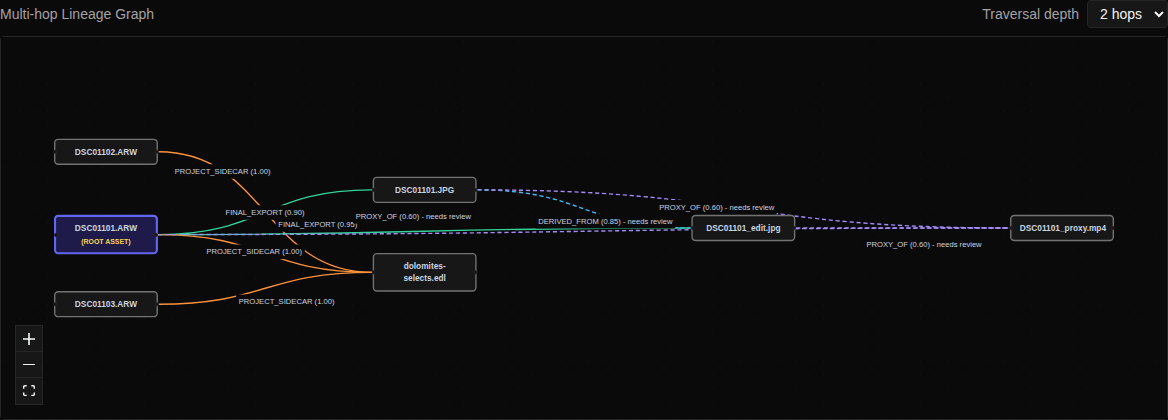
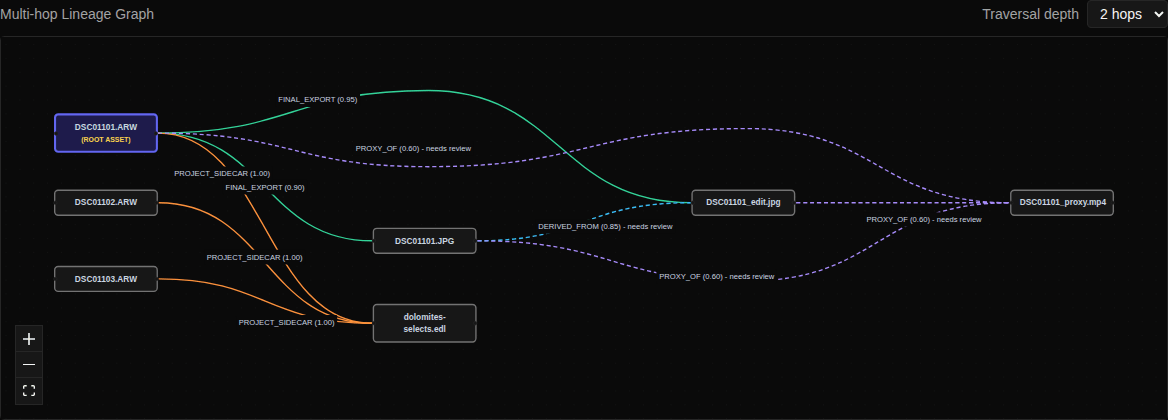
fix(web): route lineage edges that skip a column around the nodes between (#600)
* fix(web): route lineage edges that skip a column around the nodes between

An edge spanning more than one column was one bezier from source to target,
so it ran behind any node sitting at its height in a column in between (root
-> proxy.mp4 behind edit.jpg in the demo). Such an edge now gets a dummy slot
in every column it crosses. The slots are laid out like nodes, so real nodes
make room, and the custom edge draws a smooth curve through them. Labels sit
on the routed path.

No new dependency. Regenerates asset-graph{,-light}.png.

Closes #598

Claude-Session: https://claude.ai/code/session_01YT45bsDB4fuLrcMKgwwJBG

* fix(web): put routed-edge labels on the drawn curve, cover waypoint mapping

Review follow-ups on #600:
- pointAlong interpolated y linearly between waypoints, but routePath draws
  cubics whose x and y are not linear in each other, so a label could sit
  well off the line on large graphs. Solve the cubic for the parameter at the
  wanted x instead.
- NODE_CENTRE's comment claimed to match handle positions; say what it is: an
  estimate that only has to land inside the crossed column.
- Assert the waypoint flow-coordinate mapping in buildLineageFlow.

Claude-Session: https://claude.ai/code/session_01YT45bsDB4fuLrcMKgwwJBG

---------

diff --git a/web/src/lib/lineageLayout.ts b/web/src/lib/lineageLayout.ts
@@ -46,37 +46,78 @@ export function lineageRanks(nodeIds: number[], edges: LayoutEdge[]): Map<number
   return ranks;
 }
 
+/** A column slot an edge passes through between its endpoints' columns. */
+export interface RouteSlot {
+  rank: number;
+  y: number;
+}
+
 /**
- * Vertical position of every node: columns are stacked and centred, with each
- * node ordered by the mean height of its parents (then id, for a stable order
- * across refetches) so edges between neighbouring columns run roughly flat
- * instead of crossing.
+ * Vertical position of every node, plus a route for each edge that spans more
+ * than one column. Such an edge gets a dummy slot in every column it crosses;
+ * the slot is laid out like a node, so real nodes make room for it and the
+ * edge bends through the gap instead of running behind a node (#598).
+ *
+ * Within a column, items are ordered by the mean height of their parents (then
+ * id, for a stable order across refetches) so edges between neighbouring
+ * columns run roughly flat instead of crossing; columns are stacked and
+ * centred. `routes` is keyed by index into `edges`.
  */
-export function lineageRows(ranks: Map<number, number>, edges: LayoutEdge[]): Map<number, number> {
-  const parents = new Map<number, number[]>();
-  edges.forEach((e) => {
-    if (!ranks.has(e.sourceNodeId) || !ranks.has(e.targetNodeId)) return;
-    if (!parents.has(e.targetNodeId)) parents.set(e.targetNodeId, []);
-    parents.get(e.targetNodeId)!.push(e.sourceNodeId);
+export function lineageRows(
+  ranks: Map<number, number>,
+  edges: LayoutEdge[],
+): { rows: Map<number, number>; routes: Map<number, RouteSlot[]> } {
+  interface Item {
+    key: string;
+    rank: number;
+    sortId: number;
+    parents: string[];
+  }
+  const items = new Map<string, Item>();
+  const nodeKey = (id: number) => `n${id}`;
+  ranks.forEach((rank, id) => items.set(nodeKey(id), { key: nodeKey(id), rank, sortId: id, parents: [] }));
+
+  const slotKeys = new Map<number, string[]>();
+  edges.forEach((e, i) => {
+    const from = ranks.get(e.sourceNodeId);
+    const to = ranks.get(e.targetNodeId);
+    if (from === undefined || to === undefined || to <= from) return;
+    let prev = nodeKey(e.sourceNodeId);
+    const keys: string[] = [];
+    for (let rank = from + 1; rank < to; rank++) {
+      const key = `d${i}:${rank}`;
+      items.set(key, { key, rank, sortId: e.sourceNodeId, parents: [prev] });
+      keys.push(key);
+      prev = key;
+    }
+    items.get(nodeKey(e.targetNodeId))!.parents.push(prev);
+    slotKeys.set(i, keys);
   });
 
-  const columns = new Map<number, number[]>();
-  ranks.forEach((rank, id) => {
-    if (!columns.has(rank)) columns.set(rank, []);
-    columns.get(rank)!.push(id);
+  const columns = new Map<number, Item[]>();
+  items.forEach((item) => {
+    if (!columns.has(item.rank)) columns.set(item.rank, []);
+    columns.get(item.rank)!.push(item);
   });
 
-  const y = new Map<number, number>();
+  const y = new Map<string, number>();
   [...columns.keys()]
     .sort((a, b) => a - b)
     .forEach((rank) => {
-      const ids = columns.get(rank)!;
-      const barycentre = (id: number): number => {
-        const placed = (parents.get(id) ?? []).filter((p) => y.has(p));
+      const column = columns.get(rank)!;
+      const barycentre = (item: Item): number => {
+        const placed = item.parents.filter((p) => y.has(p));
         return placed.length === 0 ? 0 : placed.reduce((sum, p) => sum + y.get(p)!, 0) / placed.length;
       };
-      ids.sort((a, b) => barycentre(a) - barycentre(b) || a - b);
-      ids.forEach((id, i) => y.set(id, (i - (ids.length - 1) / 2) * ROW_GAP_Y));
+      column.sort((a, b) => barycentre(a) - barycentre(b) || a.sortId - b.sortId || (a.key < b.key ? -1 : 1));
+      column.forEach((item, i) => y.set(item.key, (i - (column.length - 1) / 2) * ROW_GAP_Y));
     });
-  return y;
+
+  const rows = new Map<number, number>();
+  ranks.forEach((_, id) => rows.set(id, y.get(nodeKey(id))!));
+  const routes = new Map<number, RouteSlot[]>();
+  slotKeys.forEach((keys, i) => {
+    if (keys.length > 0) routes.set(i, keys.map((key) => ({ rank: items.get(key)!.rank, y: y.get(key)! })));
+  });
+  return { rows, routes };
 }

diff --git a/web/src/lib/edgeStyle.ts b/web/src/lib/edgeStyle.ts
@@ -38,10 +38,14 @@ export function edgeVisual(
  * path midpoint, so edges converging on one handle stack their labels on top
  * of each other. `labelT` slides the label along the source->target line and
  * `labelDy` nudges it vertically, both chosen per edge by `labelSpread`.
+ * `waypoints` route an edge that spans several columns around the nodes in
+ * between (see `lineageRows`).
  */
 export interface LineageEdgeData extends Record<string, unknown> {
   labelT: number;
   labelDy: number;
+  /** Points the edge bends through, between its endpoints (flow coordinates). */
+  waypoints?: { x: number; y: number }[];
 }
 
 export type LineageFlowEdge = FlowEdge<LineageEdgeData, "lineage">;
@@ -64,4 +68,57 @@ export function labelSpread(index: number, count: number): LineageEdgeData {
     labelT: SPREAD_T_FROM + (SPREAD_T_TO - SPREAD_T_FROM) * f,
     labelDy: (index - (count - 1) / 2) * SPREAD_DY,
   };
+}
+
+export interface Point {
+  x: number;
+  y: number;
+}
+
+/**
+ * Smooth left-to-right path through `points`: each hop is a cubic with
+ * horizontal tangents at both ends, so it leaves and enters every point flat
+ * and the pieces join without a kink.
+ */
+export function routePath(points: Point[]): string {
+  let d = `M ${points[0].x} ${points[0].y}`;
+  for (let i = 1; i < points.length; i++) {
+    const a = points[i - 1];
+    const b = points[i];
+    const dx = (b.x - a.x) / 2;
+    d += ` C ${a.x + dx} ${a.y}, ${b.x - dx} ${b.y}, ${b.x} ${b.y}`;
+  }
+  return d;
+}
+
+/**
+ * Point on the drawn path a fraction `t` of the way across `points` (by x).
+ * Each hop is the cubic `routePath` draws, whose x and y are not linear in
+ * each other, so solve it for the parameter at the wanted x (x is monotone, so
+ * bisection converges) rather than interpolating the chord: the label then
+ * sits on the line, not beside it.
+ */
+export function pointAlong(points: Point[], t: number): Point {
+  const first = points[0];
+  const last = points[points.length - 1];
+  const x = first.x + (last.x - first.x) * t;
+  for (let i = 1; i < points.length; i++) {
+    const a = points[i - 1];
+    const b = points[i];
+    if (x > b.x && i < points.length - 1) continue;
+    // Horizontal tangents with controls at the hop's x midpoint:
+    //   x(u) = a.x + (b.x - a.x) * (1.5u - 1.5u^2 + u^3)
+    //   y(u) = a.y + (b.y - a.y) * (3u^2 - 2u^3)
+    const fx = b.x === a.x ? 0 : Math.min(1, Math.max(0, (x - a.x) / (b.x - a.x)));
+    let lo = 0;
+    let hi = 1;
+    for (let k = 0; k < 40; k++) {
+      const u = (lo + hi) / 2;
+      if (1.5 * u - 1.5 * u * u + u * u * u < fx) lo = u;
+      else hi = u;
+    }
+    const u = (lo + hi) / 2;
+    return { x, y: a.y + (b.y - a.y) * (3 * u * u - 2 * u * u * u) };
+  }
+  return first;
 }

diff --git a/web/src/components/AssetGraphCanvas.tsx b/web/src/components/AssetGraphCanvas.tsx
@@ -13,6 +13,10 @@ import LineageEdge from "./LineageEdge";
 const HORIZONTAL_HANDLES = { sourcePosition: Position.Right, targetPosition: Position.Left } as const;
 // Wide enough that a label sits between two columns instead of on a node.
 const LEVEL_GAP_X = 460;
+// Approximate centre of a node from its top-left position (node size is
+// content-driven). A waypoint only has to land inside the column it crosses and
+// level with its row, so an estimate is enough.
+const NODE_CENTRE = { x: 80, y: 22 };
 
 // Module-level so React Flow sees a stable reference across renders.
 const edgeTypes = { lineage: LineageEdge };
@@ -111,7 +115,7 @@ export function buildLineageFlow(rootId: number, lineage: LineageResponse): { no
   }
 
   const ranks = lineageRanks(lineage.nodes.map((n) => n.id), lineage.edges);
-  const rows = lineageRows(ranks, lineage.edges);
+  const { rows, routes } = lineageRows(ranks, lineage.edges);
 
   const nodes: FlowNode[] = [];
   lineage.nodes.forEach((n) => {
@@ -146,13 +150,18 @@ export function buildLineageFlow(rootId: number, lineage: LineageResponse): { no
 
   // Edges into one node converge on the same handle; fan their labels out.
   const spread = spreadLabels(lineage.edges, (e) => String(e.targetNodeId));
-  const edges: LineageFlowEdge[] = lineage.edges.map((e) => ({
+  const edges: LineageFlowEdge[] = lineage.edges.map((e, i) => ({
     id: `e-${e.id}`,
     type: "lineage",
     source: String(e.sourceNodeId),
     target: String(e.targetNodeId),
     ...edgeVisual(e, 2),
-    data: spread.get(e)!,
+    data: {
+      ...spread.get(e)!,
+      // An edge spanning several columns bends through free slots in the ones
+      // between, rather than running behind the nodes there.
+      waypoints: routes.get(i)?.map((s) => ({ x: s.rank * LEVEL_GAP_X + NODE_CENTRE.x, y: s.y + NODE_CENTRE.y })),
+    },
   }));
 
   return { nodes, edges, isEmpty: false };

diff --git a/web/src/lib/lineageLayout.test.ts b/web/src/lib/lineageLayout.test.ts
@@ -37,7 +37,7 @@ describe("lineageRanks (#595)", () => {
 describe("lineageRows", () => {
   it("centres each column and spaces its nodes by ROW_GAP_Y", () => {
     const ranks = lineageRanks([1, 2, 3], [e(1, 2), e(1, 3)]);
-    const rows = lineageRows(ranks, [e(1, 2), e(1, 3)]);
+    const { rows } = lineageRows(ranks, [e(1, 2), e(1, 3)]);
     expect(rows.get(1)).toBe(0);
     expect(rows.get(3)! - rows.get(2)!).toBe(ROW_GAP_Y);
     expect(rows.get(2)! + rows.get(3)!).toBe(0);
@@ -48,7 +48,30 @@ describe("lineageRows", () => {
     // placed above 11 even though 11 has the smaller id.
     const edges = [e(10, 21), e(20, 11)];
     const ranks = lineageRanks([10, 20, 11, 21], edges);
-    const rows = lineageRows(ranks, edges);
+    const { rows } = lineageRows(ranks, edges);
     expect(rows.get(21)!).toBeLessThan(rows.get(11)!);
+  });
+});
+
+describe("lineageRows routes (#598)", () => {
+  // 1 -> 2 -> 3 -> 4 is a spine; 1 -> 4 skips columns 1 and 2.
+  const edges = [e(1, 2), e(2, 3), e(3, 4), e(1, 4)];
+  const ranks = lineageRanks([1, 2, 3, 4], edges);
+
+  it("gives an edge spanning several columns a slot in each column it crosses", () => {
+    const { routes } = lineageRows(ranks, edges);
+    expect(routes.get(3)!.map((s) => s.rank)).toEqual([1, 2]);
+    expect(routes.has(0)).toBe(false); // adjacent columns: no route
+  });
+
+  it("keeps the slots clear of the real nodes in those columns", () => {
+    const { rows, routes } = lineageRows(ranks, edges);
+    const [first, second] = routes.get(3)!;
+    expect(Math.abs(first.y - rows.get(2)!)).toBeGreaterThanOrEqual(ROW_GAP_Y);
+    expect(Math.abs(second.y - rows.get(3)!)).toBeGreaterThanOrEqual(ROW_GAP_Y);
+  });
+
+  it("is deterministic", () => {
+    expect(lineageRows(ranks, edges)).toEqual(lineageRows(ranks, edges));
   });
 });

diff --git a/web/src/lib/edgeStyle.test.ts b/web/src/lib/edgeStyle.test.ts
@@ -1,5 +1,5 @@
 import { describe, expect, it } from "vitest";
-import { edgeVisual } from "./edgeStyle";
+import { edgeVisual, pointAlong, routePath } from "./edgeStyle";
 
 describe("edgeVisual", () => {
   const base = { relationshipType: "PROXY_OF" as const, confidence: 0.5 };
@@ -23,5 +23,35 @@ describe("edgeVisual", () => {
     const v = edgeVisual({ ...base, reviewState: "REJECTED" });
     expect(v.style.opacity).toBeLessThan(1);
     expect(v.label).toMatch(/rejected/);
+  });
+});
+
+describe("routePath / pointAlong (#598)", () => {
+  const pts = [{ x: 0, y: 0 }, { x: 100, y: 50 }, { x: 300, y: 50 }];
+
+  it("passes through every point with horizontal tangents", () => {
+    expect(routePath(pts)).toBe("M 0 0 C 50 0, 50 50, 100 50 C 200 50, 200 50, 300 50");
+  });
+
+  it("hits the endpoints and waypoints exactly", () => {
+    expect(pointAlong(pts, 0).y).toBeCloseTo(0);
+    expect(pointAlong(pts, 1).y).toBeCloseTo(50);
+    const wp = pointAlong(pts, 1 / 3);
+    expect(wp.x).toBeCloseTo(100);
+    expect(wp.y).toBeCloseTo(50);
+  });
+
+  it("stays on the drawn curve, not the chord", () => {
+    // Quarter of the way across the first hop: on routePath's cubic the label
+    // is still near the start height, well short of the chord's 12.5.
+    const p = pointAlong(pts, 1 / 12);
+    expect(p.x).toBeCloseTo(25);
+    expect(p.y).toBeLessThan(12.5 - 3);
+  });
+
+  it("puts a two-point edge's label at the midpoint of its S-curve", () => {
+    const mid = pointAlong([{ x: 0, y: 0 }, { x: 200, y: 100 }], 0.5);
+    expect(mid.x).toBe(100);
+    expect(mid.y).toBeCloseTo(50);
   });
 });

diff --git a/web/src/components/AssetGraphCanvas.test.tsx b/web/src/components/AssetGraphCanvas.test.tsx
@@ -190,6 +190,26 @@ describe("review-state edge styling", () => {
       expect(edges.find((e) => e.target === "2")!.data).toEqual({ labelT: 0.5, labelDy: 0 });
     });
 
+    it("routes an edge that skips columns through flow-coordinate waypoints in the columns it crosses", () => {
+      // 1 -> 2 -> 3 -> 4 and 1 -> 4: the last edge crosses columns 1 and 2.
+      const { edges, nodes } = buildLineageFlow(1, {
+        rootId: 1,
+        // eslint-disable-next-line @typescript-eslint/no-explicit-any
+        nodes: [1, 2, 3, 4].map(node) as any,
+        edges: [lineageEdge(10, 1, 2), lineageEdge(11, 2, 3), lineageEdge(12, 3, 4), lineageEdge(13, 1, 4)],
+      });
+      const waypoints = edges.find((e) => e.id === "e-13")!.data!.waypoints!;
+      const nodeX = (id: string) => nodes.find((n) => n.id === id)!.position.x;
+      expect(waypoints).toHaveLength(2);
+      // Each waypoint sits inside the x-span of the column it crosses.
+      expect(waypoints[0].x).toBeGreaterThan(nodeX("2"));
+      expect(waypoints[0].x).toBeLessThan(nodeX("3"));
+      expect(waypoints[1].x).toBeGreaterThan(nodeX("3"));
+      expect(waypoints[1].x).toBeLessThan(nodeX("4"));
+      // Edges between adjacent columns are not routed.
+      expect(edges.find((e) => e.id === "e-10")!.data!.waypoints).toBeUndefined();
+    });
+
     it("is deterministic for the same input and uses the custom edge type", () => {
       const graph = { parents: [lineageEdge(20, 2, 1), lineageEdge(21, 3, 1)], children: [lineageEdge(22, 1, 4)] };
       const a = buildOneHopFlow(1, graph);

diff --git a/web/src/components/LineageEdge.tsx b/web/src/components/LineageEdge.tsx
@@ -1,5 +1,5 @@
 import { BaseEdge, EdgeLabelRenderer, getBezierPath, type EdgeProps } from "@xyflow/react";
-import type { LineageFlowEdge } from "../lib/edgeStyle";
+import { pointAlong, routePath, type LineageFlowEdge } from "../lib/edgeStyle";
 
 export default function LineageEdge({
   id,
@@ -14,10 +14,17 @@ export default function LineageEdge({
   label,
   data,
 }: EdgeProps<LineageFlowEdge>) {
-  const [path] = getBezierPath({ sourceX, sourceY, targetX, targetY, sourcePosition, targetPosition });
-  const t = data?.labelT ?? 0.5;
-  const labelX = sourceX + (targetX - sourceX) * t;
-  const labelY = sourceY + (targetY - sourceY) * t + (data?.labelDy ?? 0);
+  const waypoints = data?.waypoints ?? [];
+  // A plain edge is one bezier; one spanning several columns bends through
+  // free slots so it does not run behind the nodes in between.
+  const points = [{ x: sourceX, y: sourceY }, ...waypoints, { x: targetX, y: targetY }];
+  const path =
+    waypoints.length > 0
+      ? routePath(points)
+      : getBezierPath({ sourceX, sourceY, targetX, targetY, sourcePosition, targetPosition })[0];
+  const at = pointAlong(points, data?.labelT ?? 0.5);
+  const labelX = at.x;
+  const labelY = at.y + (data?.labelDy ?? 0);
 
   return (
     <>
